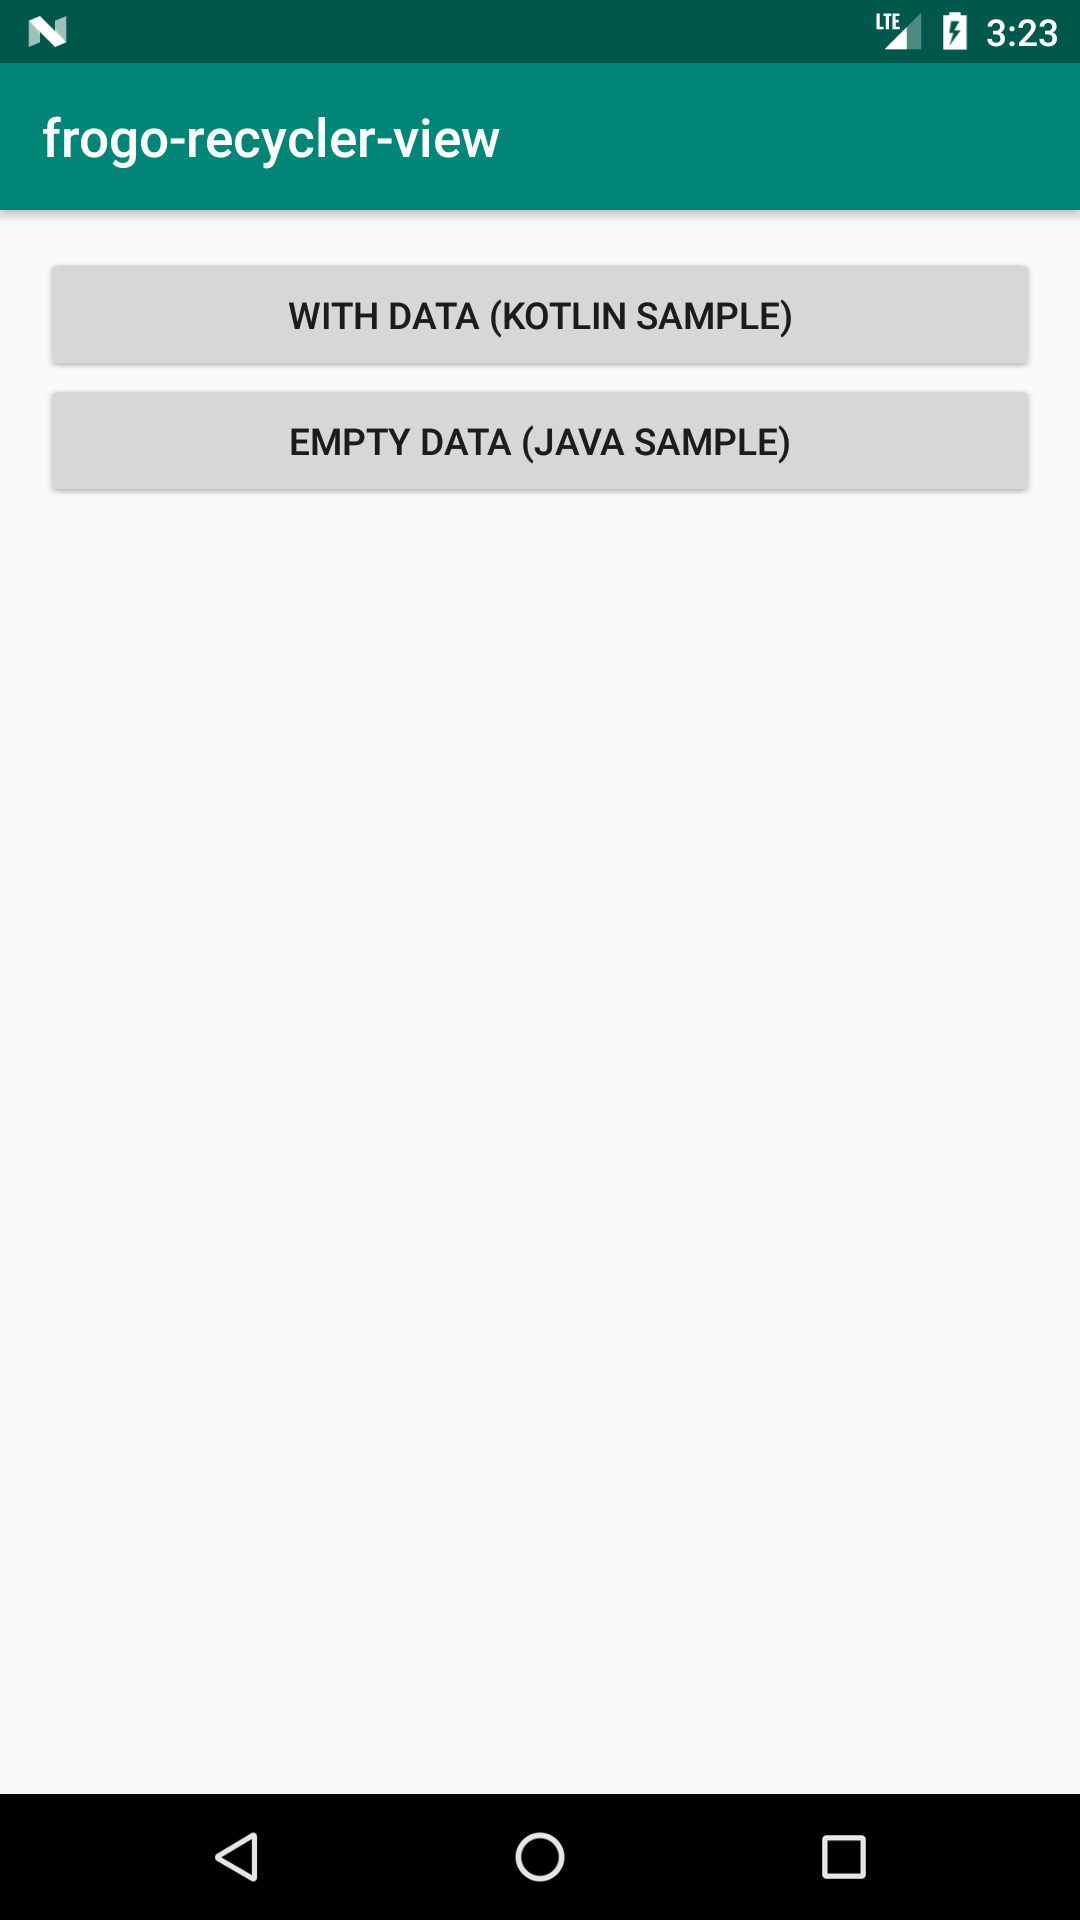
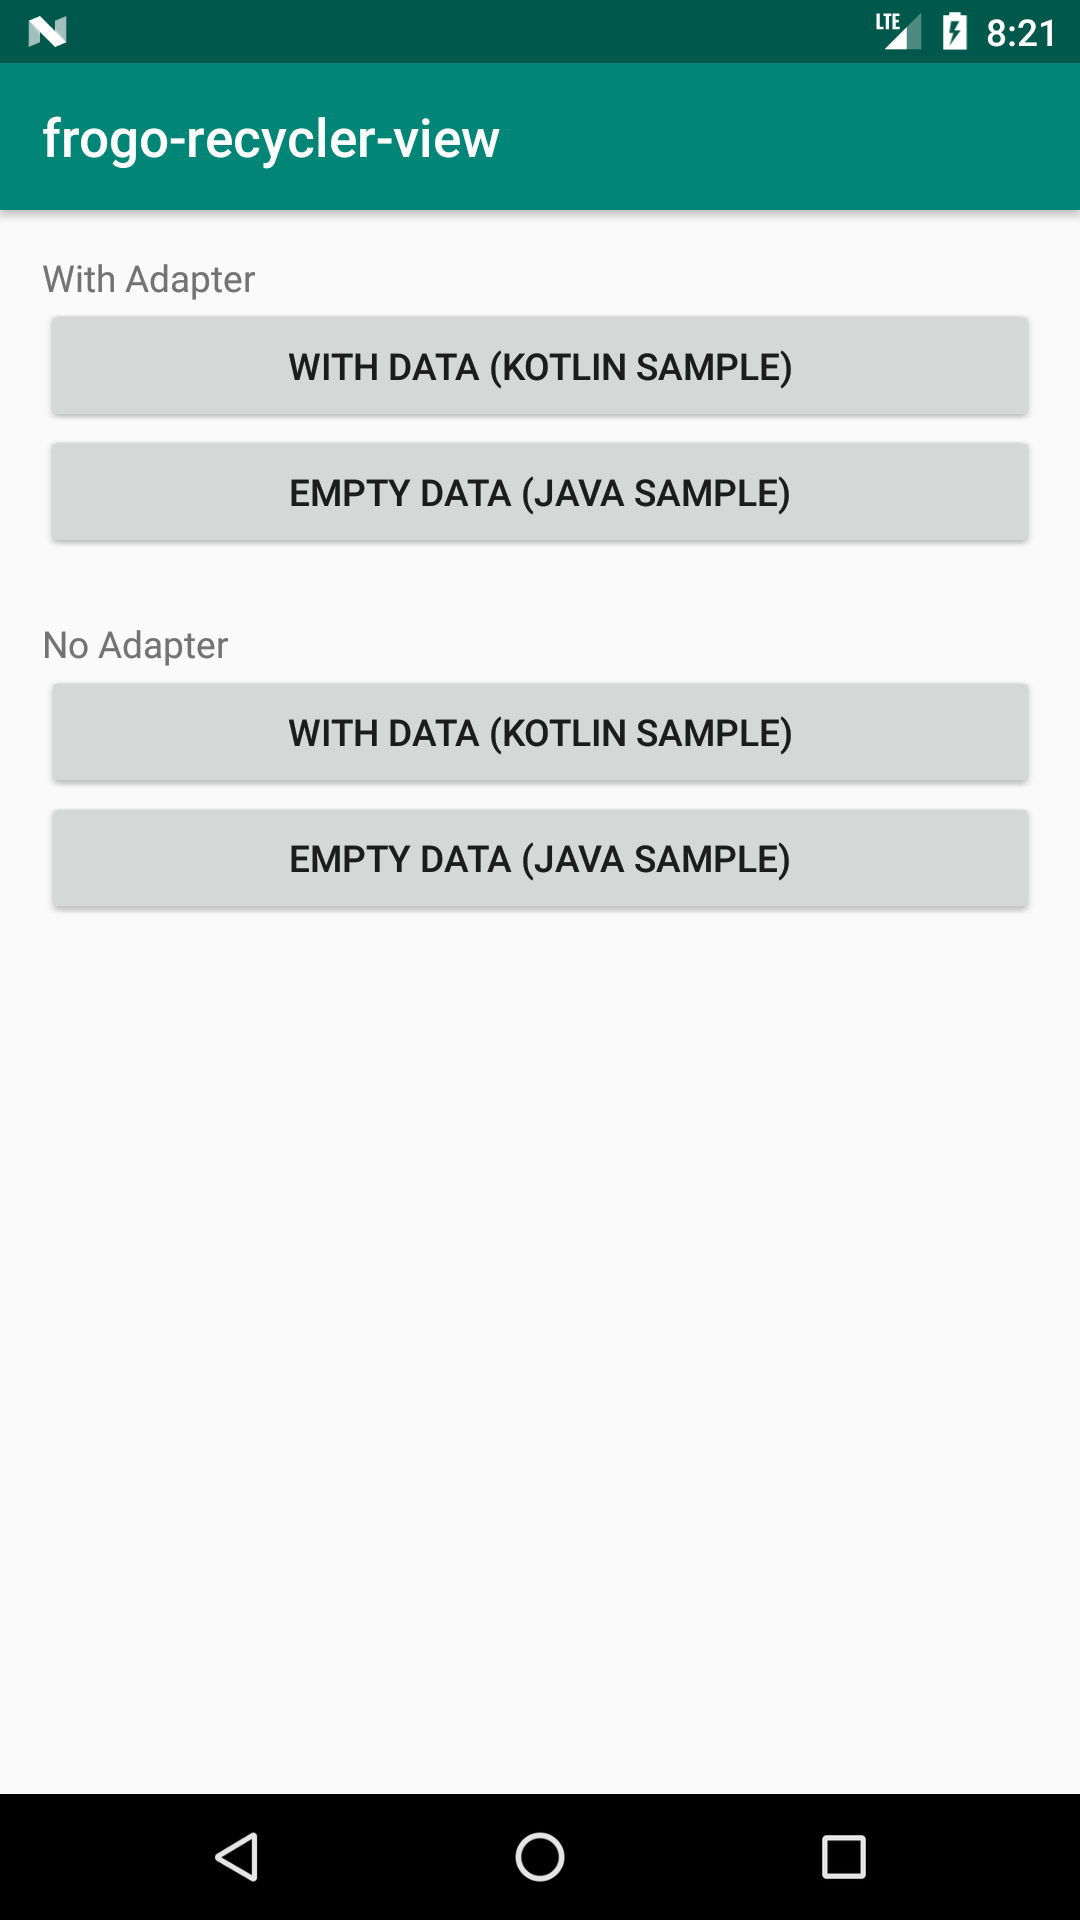
Release v2.1.3

Changed region(s): [[0.0306, 0.3125, 0.9778, 0.5], [0.0306, 0.125, 0.9778, 0.2812], [0.9472, 0.0, 0.9778, 0.0312]]

diff --git a/README.md b/README.md
@@ -1,32 +1,126 @@
 # frogo-recycler-view by Amirisback (Muhammad Faisal Amir)
 FrogoRecyclerView Extends RecyclerView
-- v2.1.2 - Development
+- v2.1.3 - Development
 - Stable Version
 
 # About This Project
-- Easy Adapter Base On RecyclerViewAdapter
-- Simple RecyclerViewAdapter
-- No longer requires variable declarations
-- Just setupRequirement()
+- RecyclerView No Adapter (Adapter Has Been Handled)
 
-# Plan Development
-- RecyclerView without adapter
-- Simpifly code
-- Bug fixing
+# Screen Shoot Apps
+<span align="center"><img width="200px" height="360px" src="docs/ss_apps.png"></span>
+<span align="center"><img width="200px" height="360px" src="docs/ss_data.png"></span>
+<span align="center"><img width="200px" height="360px" src="docs/ss_empty.png"></span>
+
+# Version Release
+This Is Latest Release
+
+    $version_release = 2.1.3
+
+What's New??
+
+    * fun injectAdapter *
+    * New sample code *
+    
+# How To Use This Project
+<h3>Step 1. Add the JitPack repository to your build file</h3>
+    
+    Add it in your root build.gradle at the end of repositories:
+    
+    	allprojects {
+    		repositories {
+    			...
+    			maven { url 'https://jitpack.io' }
+    		}
+    	}
+      
+<h3>Step 2. Add the dependency</h3>
+    
+    dependencies {
+            // library frogo-recycler-view
+            implementation 'com.github.amirisback:frogo-recycler-view:${version_release}'
+    }
+    	
+    
+<h3>Step 3. Create xml view</h3>
+    
+    <com.frogobox.recycler.FrogoRecyclerView 
+        android:id="@+id/recycler_view"
+        android:layout_width="match_parent"
+        android:layout_height="match_parent"/>
+    	
+## No Adapter
+<h3>Step 4. Inject Adapter</h3>
+    
+    private fun setupFrogoRecyclerView() {
+        recycler_view.injectAdapter(
+            R.layout.example_list_item, // layout item
+            listData(), // List Data
+            null, // Layout empty view
+            object : FrogoAdapterCallback<ExampleModel> {
+                override fun setupInitComponent(view: View, data: ExampleModel) {
+                    // Init component content item recyclerview
+                    view.tv_example_item.text = data.name
+                }
+
+                override fun onItemClicked(data: ExampleModel) {
+                    // setup item clicked on frogo recycler view
+                    Toast.makeText(this@KotlinSampleNoAdapterActivity, data.name, Toast.LENGTH_SHORT).show()
+                }
+
+                override fun onItemLongClicked(data: ExampleModel) {
+                    // setup item long clicked on frogo recycler view
+                    Toast.makeText(this@KotlinSampleNoAdapterActivity, data.name, Toast.LENGTH_SHORT).show()
+                }
+            })
+        recycler_view.isViewLinearVertical(false)
+    }
+    
+    	
+## With Adapter
+<h3>Step 4. Create adapter</h3>
+    
+    (Kotlin) - class KotlinSampleViewAdapter : FrogoRecyclerViewAdapter<ExampleModel>() {
+    (Java) - public class JavaSampleViewAdapter extends FrogoRecyclerViewAdapter<ExampleModel> {
+
+<h3>Step 5. Create Activity Or Fragment</h3>
+
+    (Kotlin) - class KotlinSampleActivity : AppCompatActivity(), FrogoRecyclerViewListener<ExampleModel> {
+    (Java) - public class JavaSampleActivity extends AppCompatActivity implements FrogoRecyclerViewListener<ExampleModel> {
+    	
+<h3>FrogoRecyclerViewAdapter Special Use Function</h3>
+    
+    // Setup adapter requirement
+    fun setupRequirement(
+        layoutItem: Int,
+        dataList: List<T>?,
+        viewListener: FrogoRecyclerViewListener<T>?
+    )
+
+    // Setup empty view for layout
+    fun setupEmptyView(emptyView: Int?)
+        
 
 # Special From This Custom View
 
     // Setup linear vertical recycler view
-    fun isViewLinearVertical(dividerItem: Boolean) {}
+    fun isViewLinearVertical(dividerItem: Boolean)
 
     // Setup linear horizontal recycler view
-    fun isViewLinearHorizontal(dividerItem: Boolean) {}
+    fun isViewLinearHorizontal(dividerItem: Boolean)
 
     // Setup staggered grid recycler view
-    fun isViewStaggeredGrid(spanCount: Int) {}
+    fun isViewStaggeredGrid(spanCount: Int)
 
     // Setup grid recycler view
-    fun isViewGrid(spanCount: Int) {}
+    fun isViewGrid(spanCount: Int)
+
+    // Setup Adapter
+    fun <T> injectAdapter(
+        layoutItem: Int,
+        dataList: List<T>?,
+        emptyView: Int?,
+        callback: FrogoAdapterCallback<T>
+    )
 
 # Function Main From This Project
 
@@ -35,6 +129,7 @@ FrogoRecyclerView Extends RecyclerView
     FrogoRecyclerViewHolder<T> - Extend From ReyclerView.ViewHolder
     FrogoRecyclerViewListener<T> - Interface for callback function from ViewHolder
     
+
 # You can just use the adapter
 only extending FrogoRecyclerViewAdapter<T> to your adapter and using RecyclerView ordinary
 
@@ -64,87 +159,114 @@ only extending FrogoRecyclerViewAdapter<T> to your adapter and using RecyclerVie
     // Initiation all component
     fun initComponent(data: T)
 
-
-# Screen Shoot Apps
-<span align="center"><img width="200px" height="360px" src="docs/ss_apps.png"></span>
-<span align="center"><img width="200px" height="360px" src="docs/ss_data.png"></span>
-<span align="center"><img width="200px" height="360px" src="docs/ss_empty.png"></span>
-
-# Android Library Version (build.gradle)
-- ext.kotlin_version = '1.3.71'
-- classpath 'com.android.tools.build:gradle:3.6.1'
-- compileSdkVersion 29
-- buildToolsVersion "29.0.3"
-- minSdkVersion 21
-
-# Version Release
-This Is Latest Release
-
-    $version_release = 2.1.2
-
-What's New??
-
-    * New sample code *
-    * frogo_rv_bg_card.xml *
-    * frogo_rv_dimens.xml *
-
-# How To Use This Project
-<h3>Step 1. Add the JitPack repository to your build file</h3>
-
-Add it in your root build.gradle at the end of repositories:
-
-	allprojects {
-		repositories {
-			...
-			maven { url 'https://jitpack.io' }
-		}
-	}
-  
-<h3>Step 2. Add the dependency</h3>
-
-	dependencies {
-	        // library google
-	        implementation 'com.google.android.material:material:${latest_version_android}'
-            implementation 'androidx.legacy:legacy-support-v4:${latest_version_android}'
-
-            // library frogo-recycler-view
-	        implementation 'com.github.amirisback:frogo-recycler-view:${version_release}'
-	}
-	
-		
-<h3>Step 3. Create xml view</h3>
-
-    <com.frogobox.recycler.FrogoRecyclerView 
-        android:id="@+id/recycler_view"
-        android:layout_width="match_parent"
-        android:layout_height="match_parent"/>
-	
-<h3>Step 4. Create adapter</h3>
-
-	(Kotlin) - class KotlinSampleViewAdapter : FrogoRecyclerViewAdapter<ExampleModel>() {
-	(Java) - public class JavaSampleViewAdapter extends FrogoRecyclerViewAdapter<ExampleModel> {
-
-<h3>Step 5. Create Activity Or Fragment</h3>
-
-	(Kotlin) - class KotlinSampleActivity : AppCompatActivity(), FrogoRecyclerViewListener<ExampleModel> {
-	(Java) - public class JavaSampleActivity extends AppCompatActivity implements FrogoRecyclerViewListener<ExampleModel> {
-	
-<h3>FrogoRecyclerViewAdapter Special Use Function</h3>
-
-    // Setup adapter requirement
-    fun setupRequirement(
-        layoutItem: Int,
-        dataList: List<T>?,
-        viewListener: FrogoRecyclerViewListener<T>?
-    )
-
-    // Setup empty view for layout
-    fun setupEmptyView(emptyView: Int?)
-    
 # Sample Code Kotlin and Java
 
-## Kotlin
-<h3>Sample Code Adapter (Kotlin)</h3>
+## No Adapter
+### Kotlin
+<h4>Sample Code Activity (Kotlin)</h3>
+
+    class KotlinSampleNoAdapterActivity : AppCompatActivity() {
+    
+        override fun onCreate(savedInstanceState: Bundle?) {
+            super.onCreate(savedInstanceState)
+            setContentView(R.layout.activity_frogo_rv_sample)
+            setupFrogoRecyclerView()
+        }
+    
+        private fun listData(): MutableList<ExampleModel> {
+            val listString = mutableListOf<ExampleModel>()
+            listString.add(ExampleModel(Constant.FULL_NAME))
+            listString.add(ExampleModel(Constant.FULL_NAME))
+            listString.add(ExampleModel(Constant.FULL_NAME))
+            listString.add(ExampleModel(Constant.FULL_NAME))
+            return listString
+        }
+    
+        private fun setupFrogoRecyclerView() {
+            frogo_recycler_view.injectAdapter(
+                R.layout.example_list_item,
+                listData(),
+                null,
+                object : FrogoAdapterCallback<ExampleModel> {
+                    override fun setupInitComponent(view: View, data: ExampleModel) {
+                        // Init component content item recyclerview
+                        view.tv_example_item.text = data.name
+                    }
+    
+                    override fun onItemClicked(data: ExampleModel) {
+                        // setup item clicked on frogo recycler view
+                        Toast.makeText(this@KotlinSampleNoAdapterActivity, data.name, Toast.LENGTH_SHORT).show()
+                    }
+    
+                    override fun onItemLongClicked(data: ExampleModel) {
+                        // setup item long clicked on frogo recycler view
+                        Toast.makeText(this@KotlinSampleNoAdapterActivity, data.name, Toast.LENGTH_SHORT).show()
+                    }
+                })
+            frogo_recycler_view.isViewLinearVertical(false)
+        }
+    
+    }
+
+  
+    
+### Java    
+<h4>Sample Code Activity (Java)</h3>
+
+    public class JavaSampleNoAdapterActivity extends AppCompatActivity {
+    
+        @Override
+        protected void onCreate(Bundle savedInstanceState) {
+            super.onCreate(savedInstanceState);
+            setContentView(R.layout.activity_frogo_rv_sample);
+            setupFrogoRecyclerView();
+        }
+    
+        private ArrayList<ExampleModel> listData() {
+            ArrayList<ExampleModel> exampleModels = new ArrayList<>();
+    //        exampleModels.add(new ExampleModel(Constant.NICK_NAME));
+    //        exampleModels.add(new ExampleModel(Constant.NICK_NAME));
+    //        exampleModels.add(new ExampleModel(Constant.NICK_NAME));
+    //        exampleModels.add(new ExampleModel(Constant.NICK_NAME));
+            return exampleModels;
+        }
+    
+        private void setupFrogoRecyclerView() {
+            FrogoRecyclerView recyclerView = findViewById(R.id.frogo_recycler_view);
+            recyclerView.injectAdapter(
+                    R.layout.example_list_item,
+                    listData(),
+                    R.layout.example_empty_view,
+                    new FrogoAdapterCallback<ExampleModel>() {
+                        @Override
+                        public void setupInitComponent(@NotNull View view, ExampleModel data) {
+                            // Init component content item recyclerview
+                            TextView tvExample = view.findViewById(R.id.tv_example_item);
+                            tvExample.setText(data.getName());
+                        }
+    
+                        @Override
+                        public void onItemClicked(ExampleModel data) {
+                            // setup item clicked on frogo recycler view
+                            Toast.makeText(JavaSampleNoAdapterActivity.this, data.getName(), Toast.LENGTH_SHORT).show();
+                        }
+    
+                        @Override
+                        public void onItemLongClicked(ExampleModel data) {
+                            // setup item long clicked on frogo recycler view
+                            Toast.makeText(JavaSampleNoAdapterActivity.this, data.getName(), Toast.LENGTH_SHORT).show();
+                        }
+                    });
+            recyclerView.isViewLinearVertical(false);
+        }
+    
+    }
+
+    
+
+## With Adapter
+### Kotlin
+<h4>Sample Code Adapter (Kotlin)</h4>
 
     class KotlinSampleViewAdapter : FrogoRecyclerViewAdapter<ExampleModel>() {
     
@@ -170,7 +292,7 @@ Add it in your root build.gradle at the end of repositories:
     }
     
     
-<h3>Sample Code Activity (Kotlin)</h3>
+<h4>Sample Code Activity (Kotlin)</h4>
 
     class KotlinSampleActivity : AppCompatActivity() {
     
@@ -212,8 +334,8 @@ Add it in your root build.gradle at the end of repositories:
     
     }
     
-## Java    
-<h3>Sample Code Adapter (Java)</h3>
+### Java    
+<h4>Sample Code Adapter (Java)</h4>
 
     public class JavaSampleViewAdapter extends FrogoRecyclerViewAdapter<ExampleModel> {
         @NonNull
@@ -241,7 +363,7 @@ Add it in your root build.gradle at the end of repositories:
     
     }
 
-<h3>Sample Code Activity (Java)</h3>
+<h4>Sample Code Activity (Java)</h4>
 
     public class JavaSampleActivity extends AppCompatActivity {
     
@@ -283,6 +405,7 @@ Add it in your root build.gradle at the end of repositories:
     }
 
     
+
 # Extension Resource
 
 ## drawable
@@ -369,6 +492,13 @@ Add it in your root build.gradle at the end of repositories:
 ## layout
 
     frogo_rv_empty_view.xml
+
+# Android Library Version (build.gradle)
+- ext.kotlin_version = '1.3.71'
+- classpath 'com.android.tools.build:gradle:3.6.2'
+- compileSdkVersion 29
+- buildToolsVersion "29.0.3"
+- minSdkVersion 21
 
 # Colaborator
 Very open to anyone, I'll write your name under this, please contribute by sending an email to me
